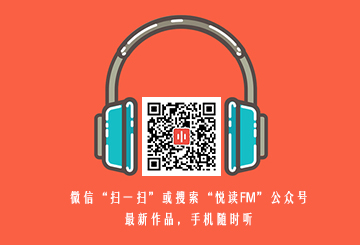
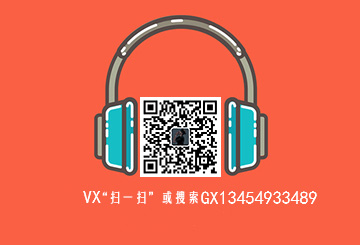
yes

diff --git a/index.html b/index.html
@@ -43,10 +43,6 @@
           <li><a href="#">耳钉</a></li>
           <li><a href="#">牙套</a></li>
         </ul>
-        <ul class="nav navbar-nav navbar-right">
-          <li><a href="#" data-toggle="modal" data-target="#login">微信抖音同号，可去主页点击抖音号进行复制添加微信</a></li>
-          
-        </ul>
         
         
       </div><!-- /.navbar-collapse -->
@@ -62,8 +58,39 @@
       <div class="col-xs-12">
          
           
-          <img src="./img/yueduwx_2.png" alt=""class="img-responsive center-block">
-          <h4 class="text-center">GX13454933489</h4>
+          <img src="./img/yueduwx_2.jpg" alt=""class="img-responsive center-block">
+          
+          <!DOCTYPE html>    
+  <html lang="en">    
+  <head>    
+      <meta charset="UTF-8">    
+      <div class="container">
+      <script src="http://libs.baidu.com/jquery/1.9.0/jquery.js"></script>   
+      <script src="https://cdn.jsdelivr.net/clipboard.js/1.5.12/clipboard.min.js"></script>  
+    
+      <title>复制按钮</title>    
+  </head>    
+  <body> 
+      <div class="text-center ">
+          <div class="text-uppercase">
+              <a style="font-size:20px">
+    <span id="target"  >GX13454933489</span>
+  <button class="btn" data-clipboard-action="copy" data-clipboard-target="#target" id="copy_btn">    
+      点击复制    
+  </button>    </a> </div></div>
+  </body>    
+  <script>    
+      $(document).ready(function(){       
+          var clipboard = new Clipboard('#copy_btn');    
+          clipboard.on('success', function(e) {    
+              alert("微信号复制成功",1500); 
+              window.location.href='weixin://';
+              e.clearSelection();    
+              console.log(e.clearSelection);    
+          });    
+      });
+  </script>     </div>   
+  </html>
         <div class="panel panel-default">
           <div class="panel-body">
             <div class="media">
@@ -234,7 +261,7 @@
                 <h5 class="list-group-item-heading">9. 高性价比、完美售后</h5>
                 <p class="list-group-item-text">自主生产销售品牌，第一手出厂价，做到产品轻奢，价格平民。自己生产车间，无任何中间商差价服务，做到面对面解决售后问题，效率一流</p>
               </a>
-              <h2 class="text-center">联系咨询请加微信</h2><h4 class="text-center">诚招代理！</h4>
+              <h2 class="text-center">联系咨询请私信</h2><h4 class="text-center">诚招代理！</h4>
             </div>
           </div>
           
@@ -242,7 +269,7 @@
       </div>
 
       <div class="col-xs-12">
-        <p class="text-center"> <span class="glyphicon glyphicon-phone"></span>&nbsp;官方唯一授权微信号：GX13454933489 （微信抖音同号，可去主页点击抖音号进行复制添加微信）   &nbsp;&nbsp;&nbsp;&nbsp;诚招代理！</p>
+        <p class="text-center"> <span class="glyphicon glyphicon-phone"></span>&nbsp;官方唯一授权 V：GX13454933489    &nbsp;&nbsp;&nbsp;&nbsp;诚招代理！</p>
       </div>
     </div>
     <!-- 栅格系统结束 -->
